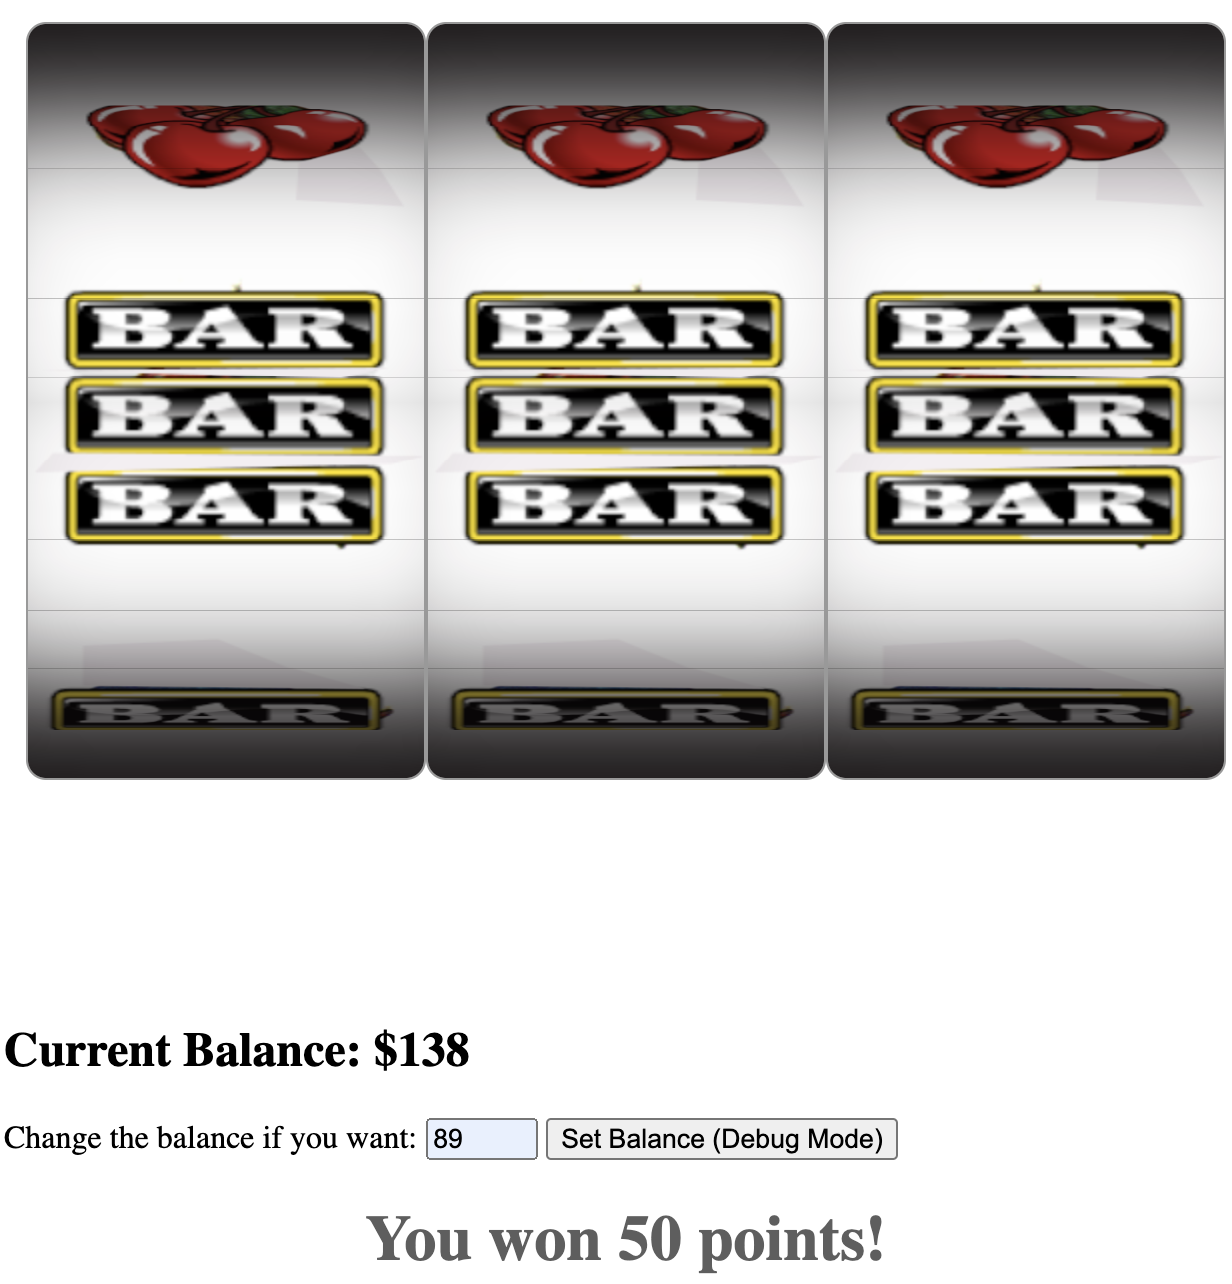
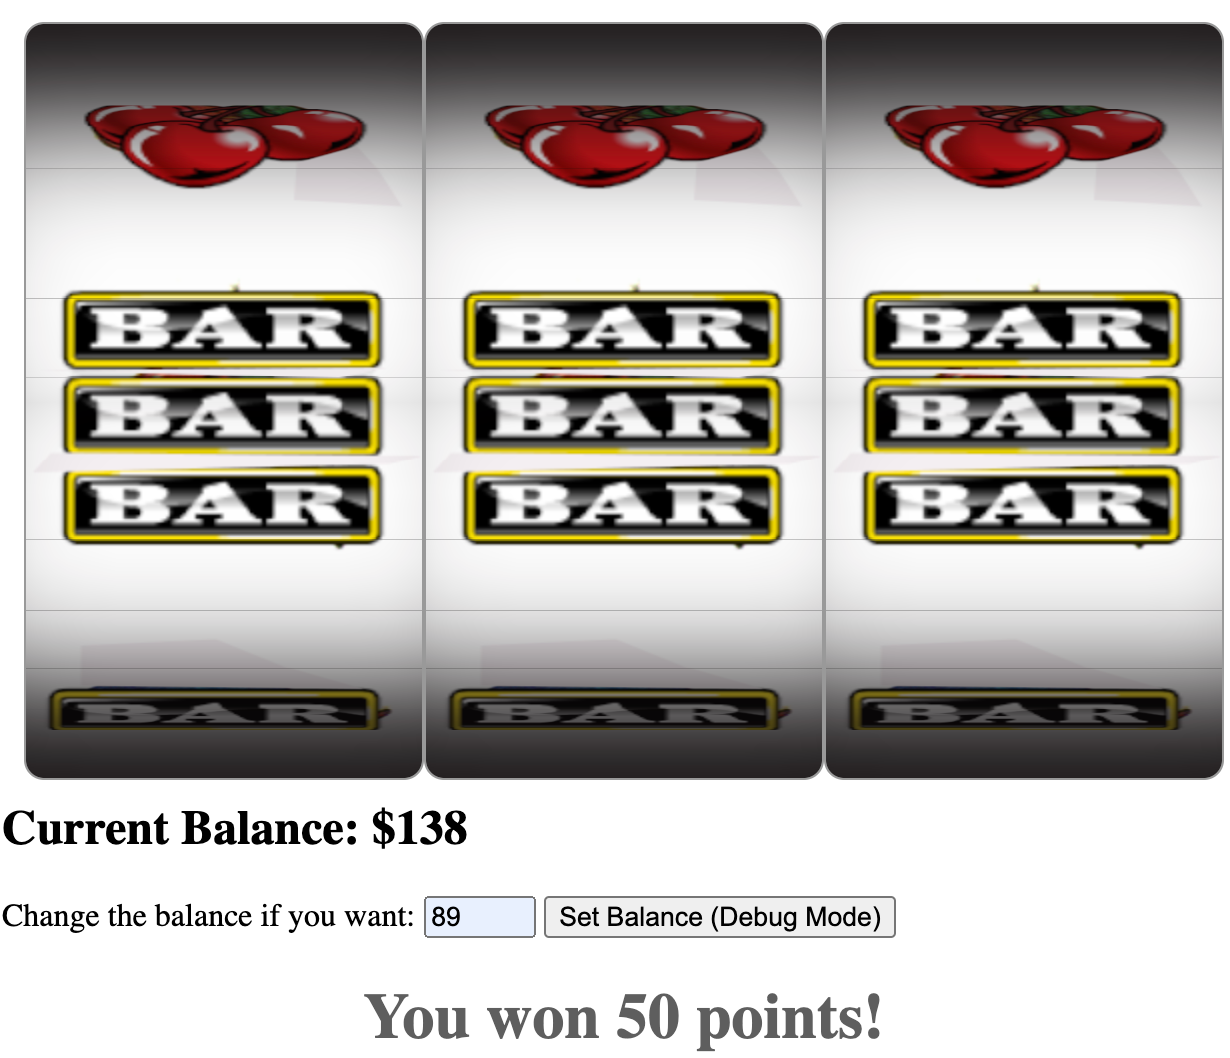
add slot machine image to readme

diff --git a/README.md b/README.md
@@ -3,18 +3,13 @@
 <!-- PROJECT LOGO -->
 <br />
 <p align="center">
-  <a href="https://nifty-engelbart-7a61f7.netlify.app"/>
-    <img src="images/slotmachineReadme.png" alt="Logo" width="80" height="80">
-  </a>
-
-  <h3 align="center">Best-README-Template</h3>
-
   <p align="center">
     A Slot Machine project for a coding challenge!
-    <br />
-    <br />
+      <a href="https://nifty-engelbart-7a61f7.netlify.app"/>
+        <img src="images/slotmachineReadme.png" alt="Logo" width="500" height="700">
+      </a>
+      <br />
     <a href="https://nifty-engelbart-7a61f7.netlify.app/">View a Demo of the Slot Machine in Action!</a>
-    ·
   </p>
 </p>
 
